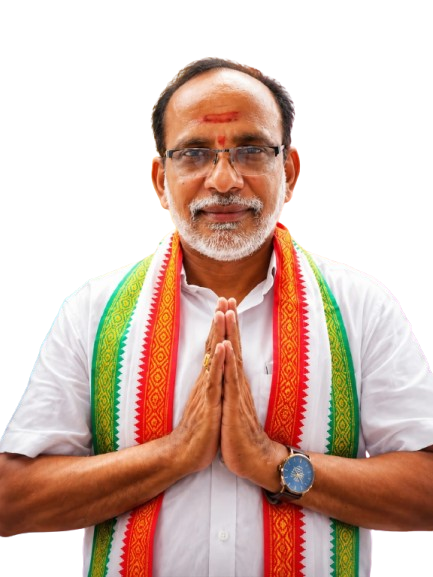
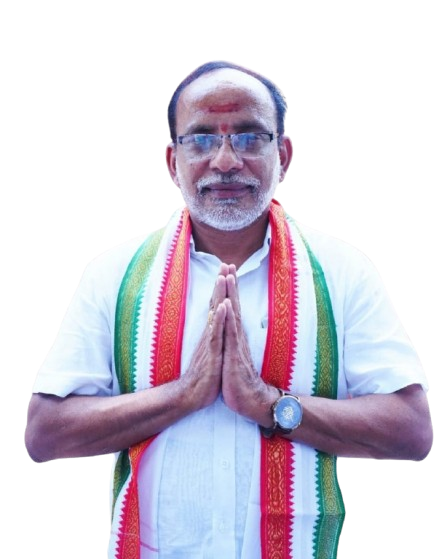
refactor: update Nginx configuration and documentation for deployment- Replaced the existing Nginx configuration files with a structured approach using sites-available for better management.- Updated DEPLOYMENT.md to reflect changes in the setup process, including instructions for copying HTTP and H

diff --git a/frontend/src/pages/Home.jsx b/frontend/src/pages/Home.jsx
@@ -166,21 +166,23 @@ export default function Home() {
                   <LeaderCircle key={i} {...l} size="sm" />
                 ))}
               </div>
-              {/* 2 full-body leaders side by side */}
-              <div className="flex justify-center gap-4">
+              {/* 2 full-body leaders side by side — fixed height so both look the same size */}
+              <div className="flex justify-center items-start gap-3 px-2">
                 {[LEFT_LEADERS[2], RIGHT_LEADERS[2]].map((l, i) => (
-                  <div key={i} className="text-center" style={{ width: '160px' }}>
-                    <img
-                      src={l.photo}
-                      alt={l.name}
-                      className="object-contain object-top drop-shadow-xl mx-auto"
+                  <div key={i} className="text-center flex-1 max-w-[168px] min-w-0">
+                    <div
+                      className="mx-auto w-[145px] h-[200px] overflow-hidden drop-shadow-xl"
                       style={{
-                        width: '145px',
-                        maxHeight: '240px',
                         WebkitMaskImage: 'linear-gradient(to bottom, black 60%, transparent 100%)',
                         maskImage: 'linear-gradient(to bottom, black 60%, transparent 100%)',
                       }}
-                    />
+                    >
+                      <img
+                        src={l.photo}
+                        alt={l.name}
+                        className="w-full h-full object-cover object-top"
+                      />
+                    </div>
                     <p className="text-white font-bold text-[11px] mt-1 leading-tight">{l.name}</p>
                     {l.role && <p className="text-[#FF9933] text-[10px] font-semibold mt-0.5 leading-tight">{l.role}</p>}
                     {l.roleEn && <p className="text-primary-300 text-[10px] leading-tight">{l.roleEn}</p>}

diff --git a/DEPLOYMENT.md b/DEPLOYMENT.md
@@ -245,17 +245,12 @@ Install Nginx:
 sudo apt install -y nginx
 ```
 
-**First time (before SSL):** use the HTTP-only config:
+**First time (before SSL):** copy the HTTP bootstrap into `sites-available` and enable it:
 
 ```bash
 sudo mkdir -p /var/www/certbot
-sudo cp /opt/meru-website/nginx/nginx.http.conf /etc/nginx/sites-available/meracorporation.in
-```
-
-Enable the site:
-
-```bash
-sudo ln -s /etc/nginx/sites-available/meracorporation.in /etc/nginx/sites-enabled/
+sudo cp /opt/meru-website/nginx/sites-available/meracorporation.in.http /etc/nginx/sites-available/meracorporation.in
+sudo ln -sf /etc/nginx/sites-available/meracorporation.in /etc/nginx/sites-enabled/meracorporation.in
 sudo rm -f /etc/nginx/sites-enabled/default
 sudo nginx -t
 sudo systemctl reload nginx
@@ -281,7 +276,22 @@ Admin panel: `http://meracorporation.in/admin`
 sudo apt install -y certbot python3-certbot-nginx
 ```
 
-Obtain certificates:
+Obtain certificates with Certbot (same style as your other sites):
+
+```bash
+sudo certbot --nginx -d meracorporation.in -d www.meracorporation.in
+```
+
+Certbot updates `/etc/nginx/sites-available/meracorporation.in` automatically.
+
+If you prefer to copy the HTTPS config manually after certificates exist:
+
+```bash
+sudo cp /opt/meru-website/nginx/sites-available/meracorporation.in /etc/nginx/sites-available/meracorporation.in
+sudo nginx -t && sudo systemctl reload nginx
+```
+
+Alternative — webroot only (if not using `certbot --nginx`):
 
 ```bash
 sudo certbot certonly --webroot -w /var/www/certbot \
@@ -292,19 +302,18 @@ sudo certbot certonly --webroot -w /var/www/certbot \
   --no-eff-email
 ```
 
-Generate SSL options (if not already present):
+Generate SSL options (if not already present from other sites on this VPS):
 
 ```bash
 sudo curl -s https://raw.githubusercontent.com/certbot/certbot/master/certbot-nginx/certbot_nginx/_internal/tls_configs/options-ssl-nginx.conf -o /etc/letsencrypt/options-ssl-nginx.conf
 sudo openssl dhparam -out /etc/letsencrypt/ssl-dhparams.pem 2048
 ```
 
-Switch to the full HTTPS config:
+Then copy the HTTPS site config:
 
 ```bash
-sudo cp /opt/meru-website/nginx/nginx.conf /etc/nginx/sites-available/meracorporation.in
-sudo nginx -t
-sudo systemctl reload nginx
+sudo cp /opt/meru-website/nginx/sites-available/meracorporation.in /etc/nginx/sites-available/meracorporation.in
+sudo nginx -t && sudo systemctl reload nginx
 ```
 
 Certificate files used by Nginx:
@@ -484,7 +493,7 @@ cd /opt/meru-website/frontend && npm run build
 ls /opt/meru-website/frontend/build/
 ```
 
-Nginx must point to `/opt/meru-website/frontend/build` (see `nginx/nginx.conf`).
+Nginx must point to `/opt/meru-website/frontend/build` (see `nginx/sites-available/meracorporation.in`).
 
 ### Admin login fails
 
@@ -510,8 +519,9 @@ Usually caused by missing `JWT_SECRET` in `backend/.env` or MongoDB not ready ye
 | `/opt/meru-website/backend/Dockerfile` | Backend image (Node 22) |
 | `/opt/meru-website/backend/.env` | Production secrets |
 | `/opt/meru-website/frontend/build/` | Built React app (Nginx serves this) |
-| `/opt/meru-website/nginx/nginx.conf` | Full HTTPS Nginx config (after Certbot) |
-| `/opt/meru-website/nginx/nginx.http.conf` | HTTP-only bootstrap config (before SSL) |
+| `/opt/meru-website/nginx/sites-available/meracorporation.in.http` | HTTP bootstrap — use before Certbot |
+| `/opt/meru-website/nginx/sites-available/meracorporation.in` | HTTPS config (Certbot style) — use after SSL |
+| `/opt/meru-website/nginx/README.md` | Copy/symlink instructions |
 
 ---
 

diff --git a/SETUP.md b/SETUP.md
@@ -122,7 +122,7 @@ meru-website/
 │       ├── utils/       ← API, validators, districts
 │       └── data/        ← Leaders data
 ├── docker-compose.yml   ← MongoDB + backend
-└── nginx/nginx.conf     ← Sample host Nginx config
+└── nginx/sites-available/  ← Nginx configs (see nginx/README.md)
 ```
 
 ---